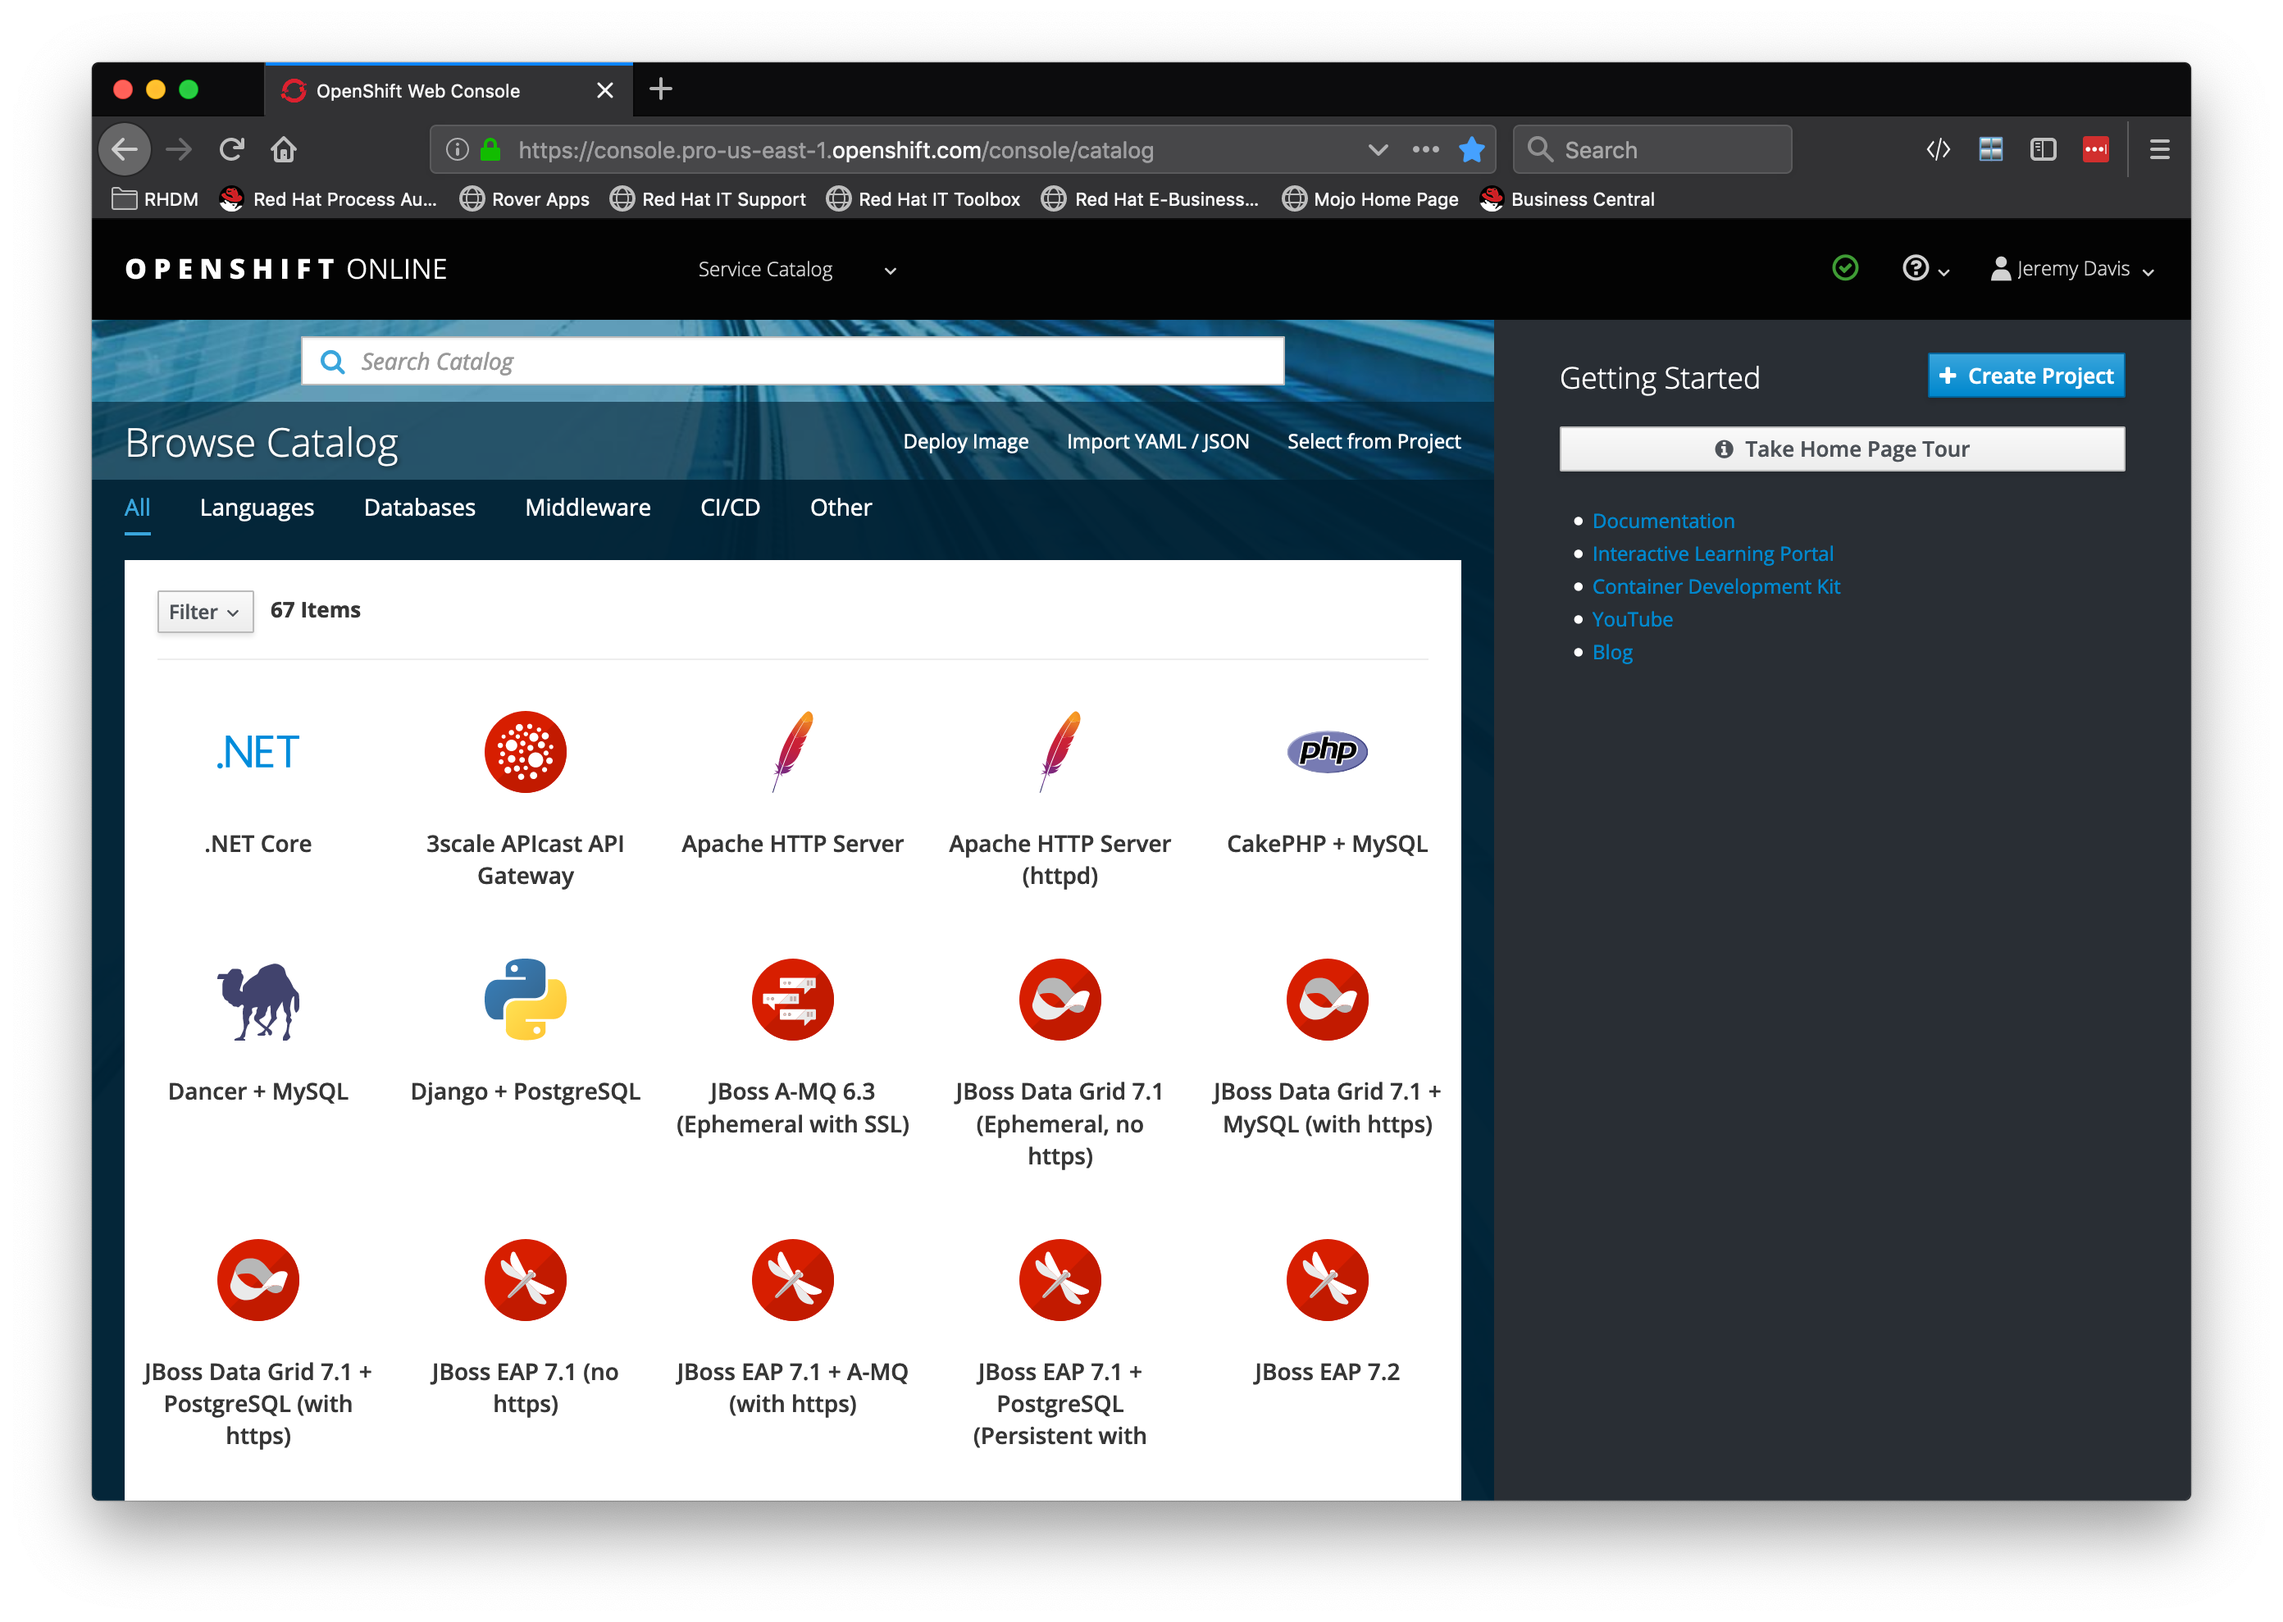
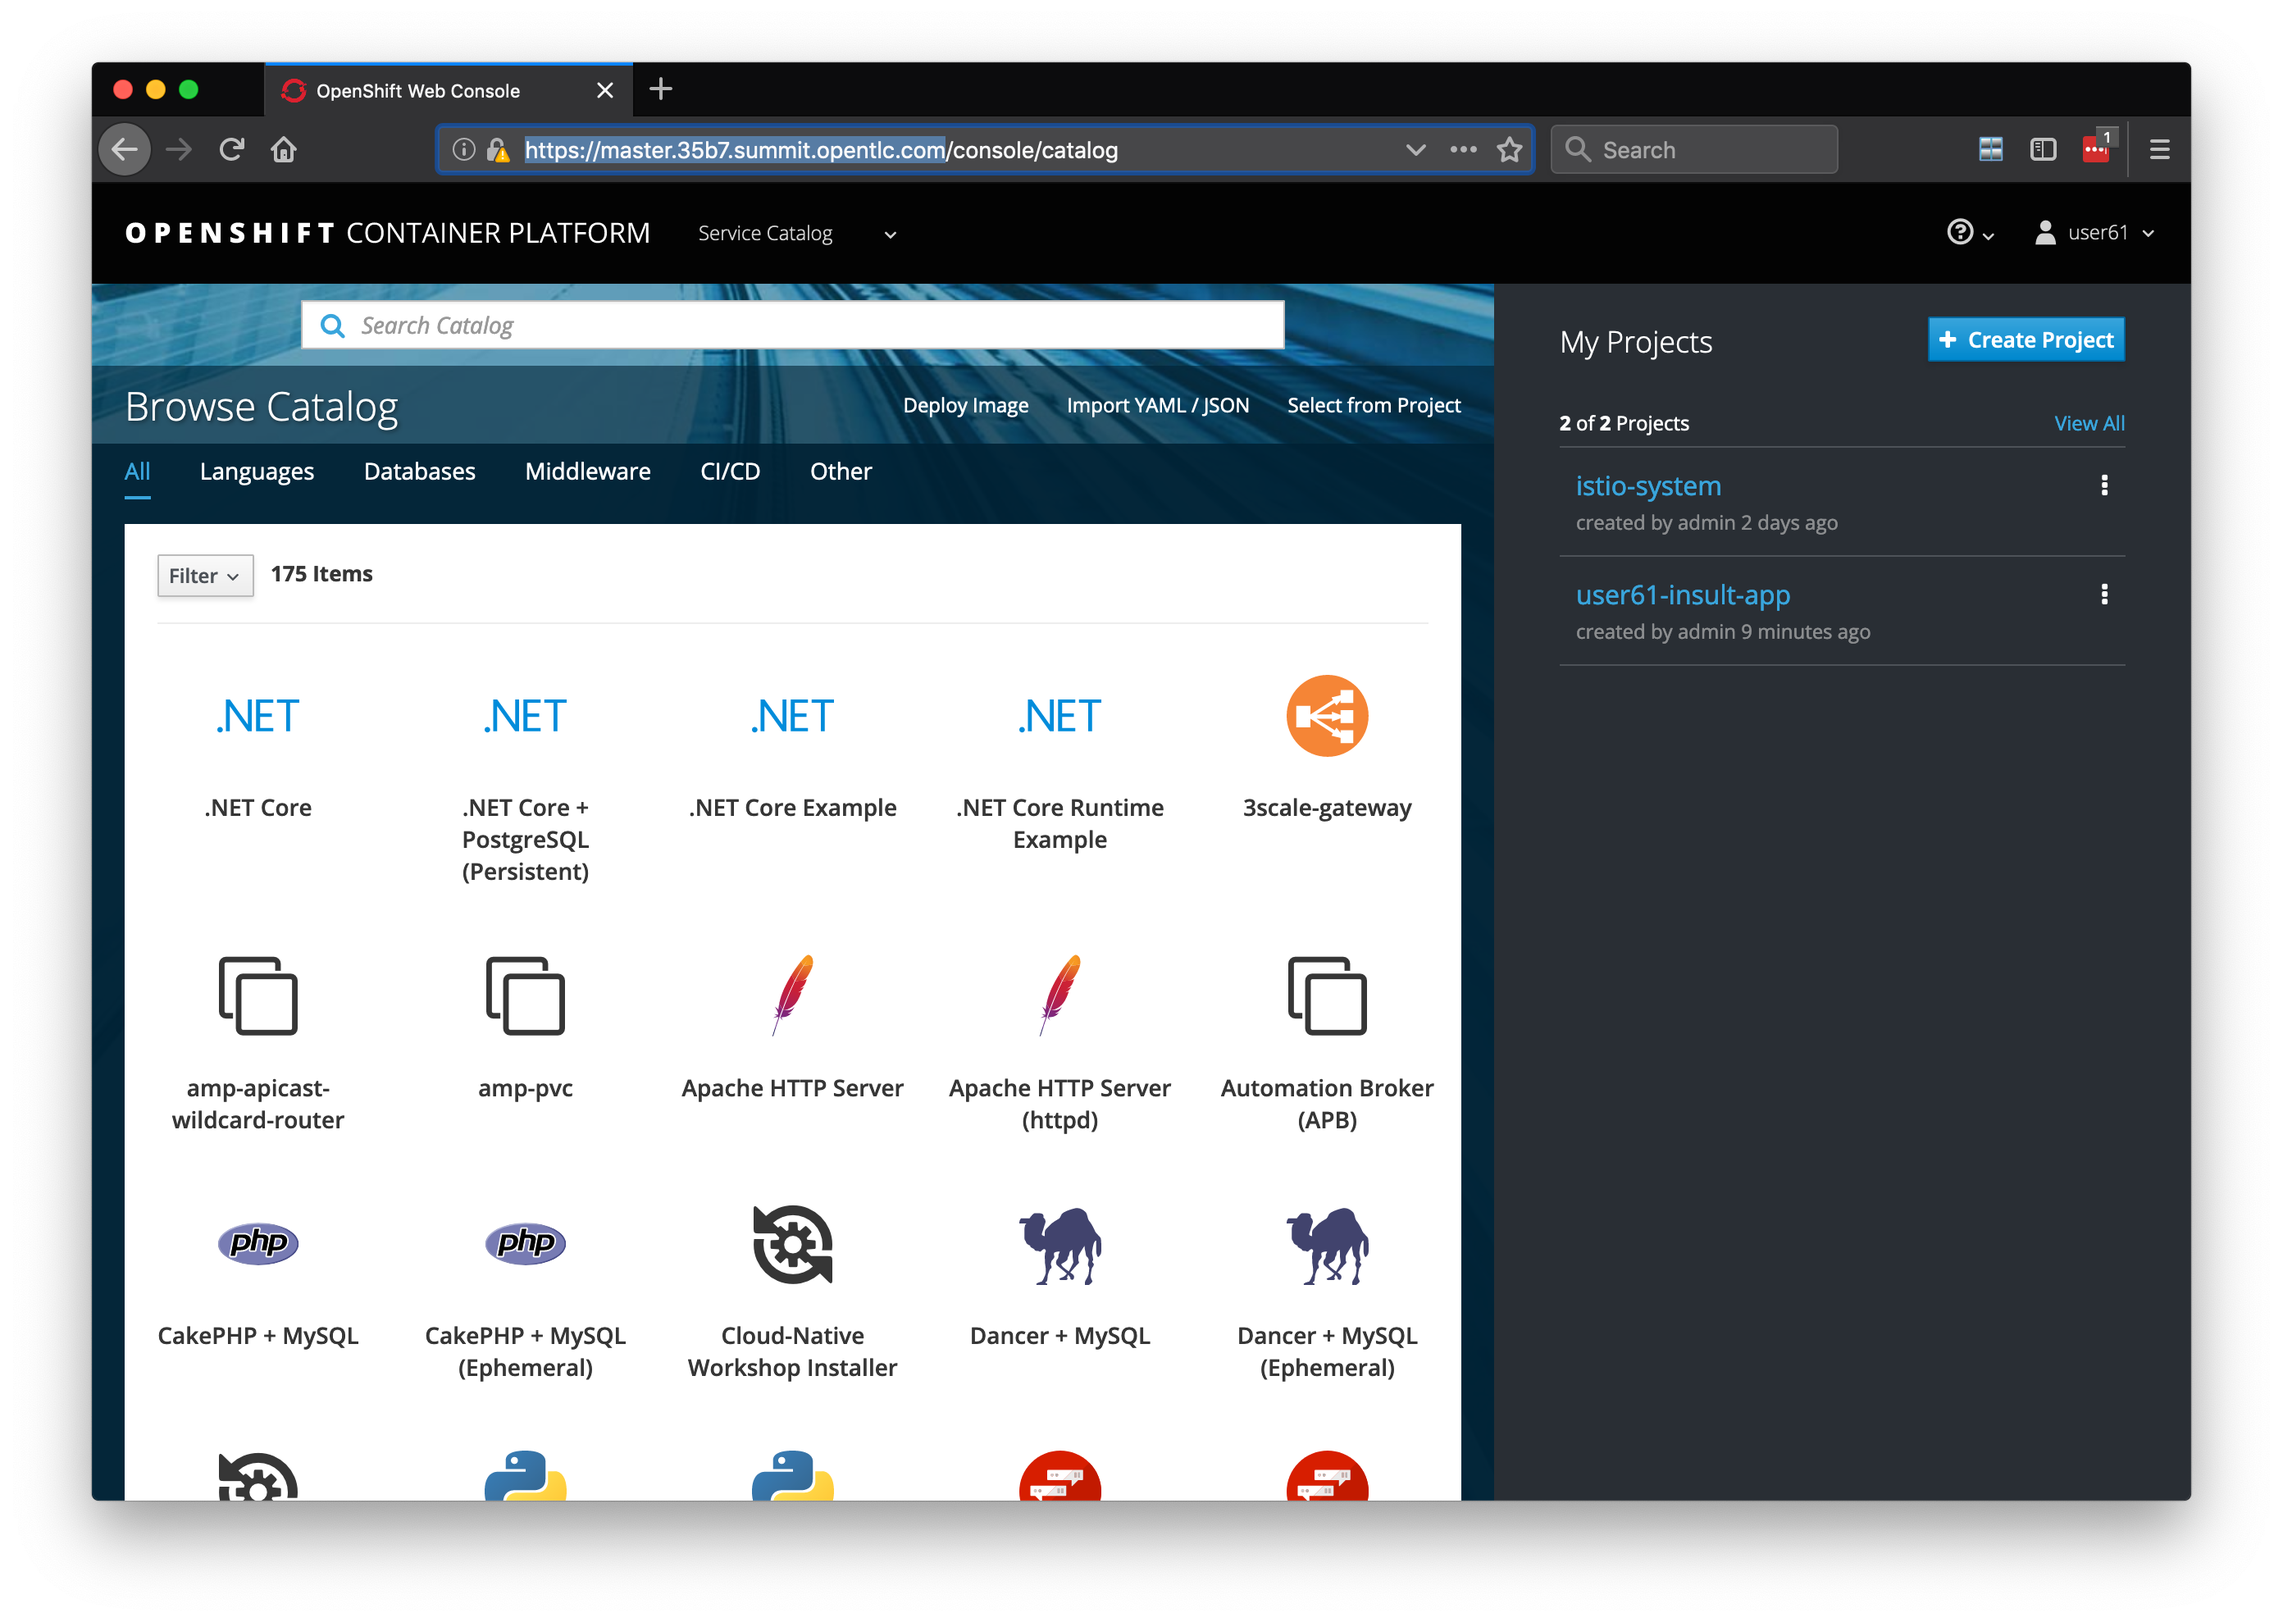
updated lab 2

diff --git a/Lab-2-Log_into_OpenShift.md b/Lab-2-Log_into_OpenShift.md
@@ -12,20 +12,13 @@ URL: https://master.35b7.summit.opentlc.com
 
 Open the url provided by your instructor and log in with your username and password.  Your username/password combination will be something like user15/r3dh4t1!
 
+NOTE: Your browser will probably warn you about the site's certificate.  Don't worry about that.
+
 ![](./images/lab2/lab2-01-console.png)  
 
-### Create a new project
+### Your projects
 
-Click the blue, "Create Project" button in the top right of your screen to create a new project.  You can name your project anything you want as long as you don't want spaces or special characters.  
-
-We suggest:
-* Name: redhat-summit-insults
-* Display Name: Red Hat Summit Insults
-* Description: Awesome Red Hat Summit Insult Workshop
-
-![](./images/lab2/lab2-02-console_create_project.png)  
-
-![](./images/lab2/lab2-03-console_create_project_success.png)  
+You have 2 projects in your cluster, "istio-system," and "userXX-insult-app.""  "istio-system" will be used for the Istio lab, and "userXX-insult-app" will be used for the other labs.
 
 ### Log in from your laptop
 
